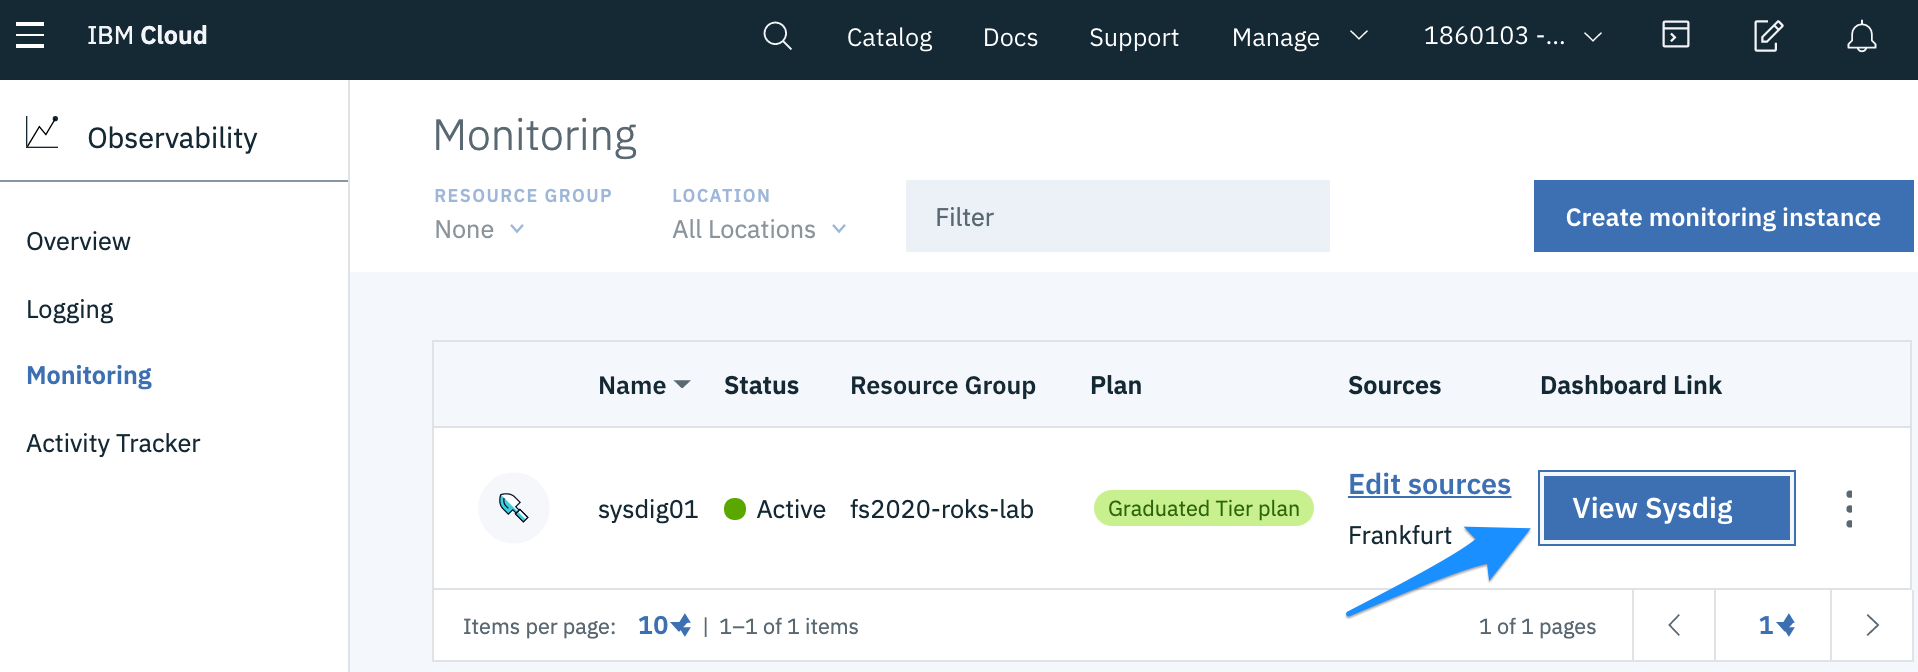
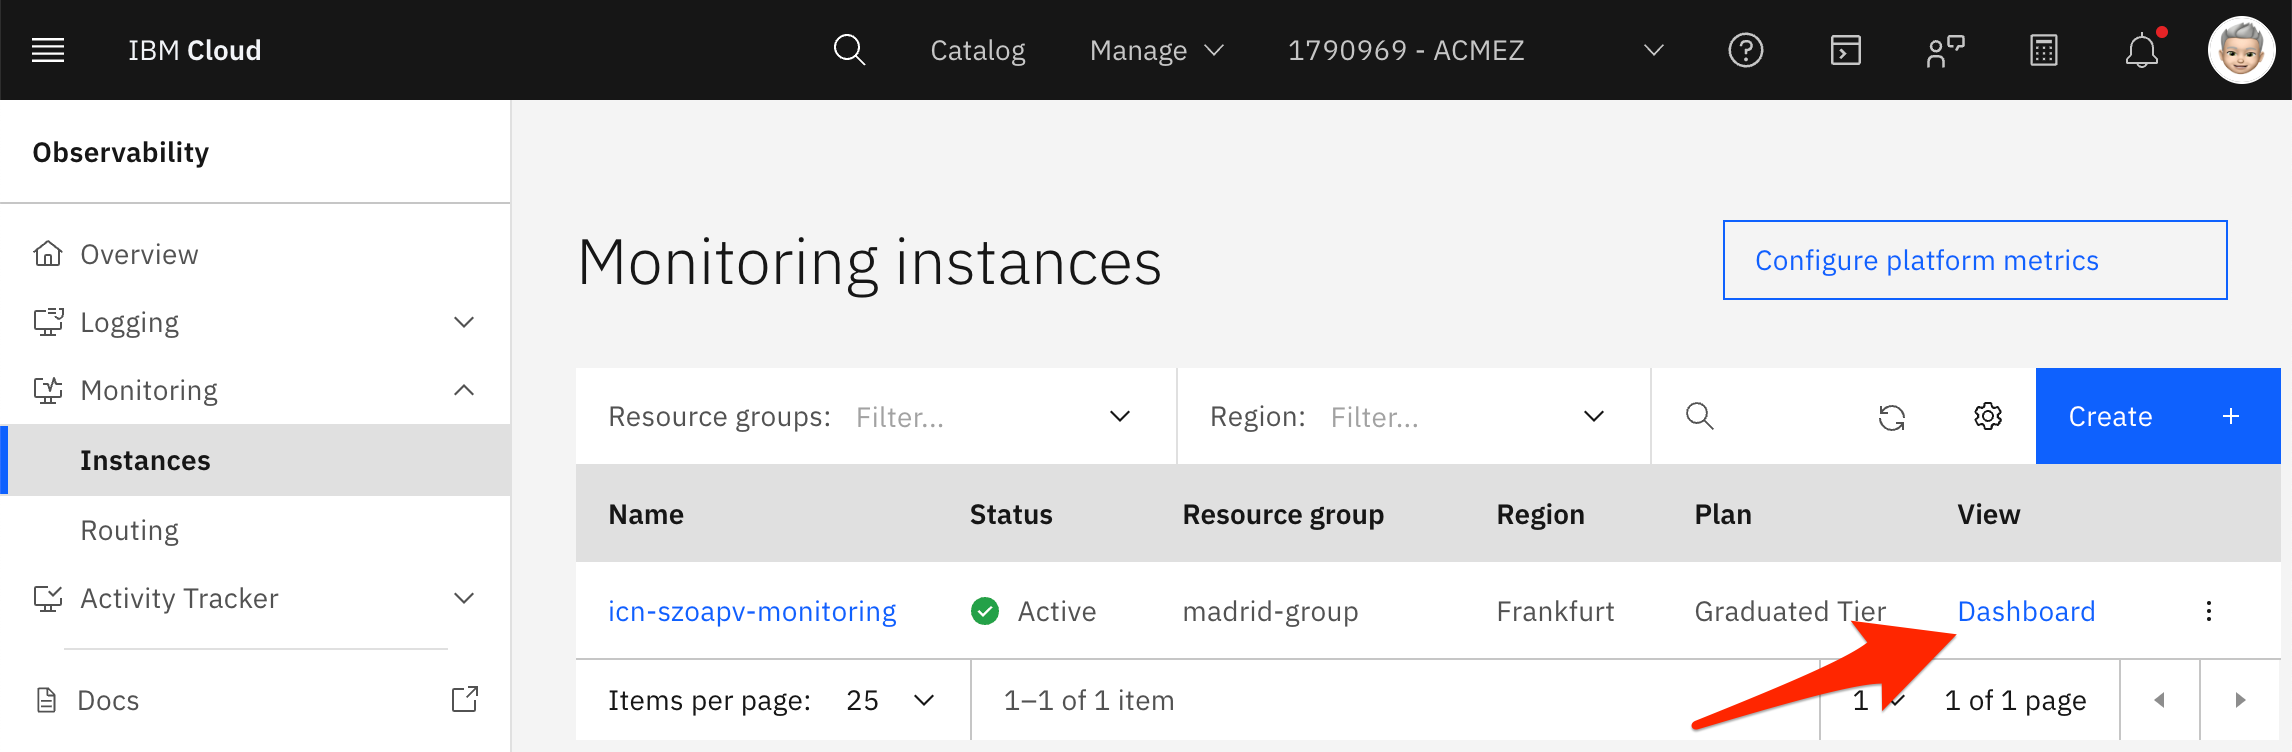
started to update Monitoring

diff --git a/archived/ex-9-monitor-initial.md b/archived/ex-9-monitor-initial.md
@@ -1,42 +1,66 @@
-# Monitor your Cluster
+# Monitor your Cluster with SysDig
 
-IBM Cloud Monitoring with Sysdig is a co-branded cloud-native, and container-intelligence management system that you can include as part of your architecture.
-
-Use views and dashboards to monitor your infrastructure, applications, and services. You can use pre-defined dashboards. You can also create custom dashboards through the Web UI or programmatically.
-
-The following table lists the different types of pre-defined dashboards:
-
-| Type | Description |
-| :--- | :--- |
-| Applications | Dashboards that you can use to monitor your applications and infrastructure components. |
-| Host and containers | Dashboards that you can use to monitor resource utilization and system activity on your hosts and in your containers. |
-| Network | Dashboards that you can use to monitor your network connections and activity. |
-| Service | Dashboards that you can use to monitor the performance of your services, even if those services are deployed in orchestrated containers. |
-| Topology | Dashboards that you can use to monitor the logical dependencies of your application tiers and overlay metrics. |
+IBM Cloud Monitoring with Sysdig is a co-branded cloud-native, and container- intelligence management system that you can include as part of your IBM Cloud architecture. Use it to gain operational visibility into the performance and health of your applications, services, and platforms. It offers administrators, DevOps teams, and developers full stack telemetry with advanced features to monitor and troubleshoot performance issues, define alerts, and design custom dashboards. IBM Cloud Monitoring with Sysdig is operated by Sysdig in partnership with IBM. [Learn more](https://cloud.ibm.com/docs/Monitoring-with-Sysdig?topic=Sysdig-getting-started).
 
 In the next steps, you will learn how to use dashboards and metrics to monitor the health of your application.
 
-## View the Monitoring dashboard
+## View SysDig pre-defined views and dashboards
 
-1. Go the Monitoring section under [Observability](https://cloud.ibm.com/observability/monitoring)
+Use views and dashboards to monitor your infrastructure, applications, and services. You can use pre-defined dashboards. You can also create custom dashboards through the Web UI or programmatically. You can backup and restore dashboards by using Python scripts.
 
-1. Launch the Monitoring Dashboard.
+The following table lists the different types of pre-defined dashboards:
 
-    ![dashboard](../assets/icp-monitoring-launch.png)
+| Type | Description | 
+| :--- | :--- |
+| Applications | Dashboards that you can use to monitor your applications and infrastructure components. |
+| Host and containers | Dashboards that you can use to monitor resource utilization and system activity on your hosts and in your containers. |
+| Network | Dashboards that you can use to monitor your network connections and activity. | 
+| Service | Dashboards that you can use to monitor the performance of your services, even if those services are deployed in orchestrated containers. | 
+| Topology | Dashboards that you can use to monitor the logical dependencies of your application tiers and overlay metrics. | 
 
-1. Navigate the Monitoring console to get metrics on your Kubernetes cluster, nodes, deployments, pods, containers.
 
-1. Under the **Explore** section,select **Containerized Apps** to view raw metrics for all workloads running on the cluster.
+## Complete the Sysdig installation wizard
+
+1. Launch the Sysdig web UI.
+
+    ![](../assets/icp-monitoring-launch.png)
+
+2. In the Sysdig Welcome wizard, click **Next**
+   ![](../assets/sysdig-wizard1.png)
+
+3. Select **Kubernetes | GKE | OpenShift** as the installation method.
+   ![](../assets/sysdig-wizard2.png)
+
+4. You should see a message `You have X agents connected`. Click **GO TO NEXT STEP**. 
+   ![](../assets/sysdig-wizard3.png)
+
+5. Setup is complete. Click **LET'S GET STARTED**
+   ![](../assets/sysdig-wizard4.png)
+
+6. Select **Next**
+   ![](../assets/sysdig-wizard5.png)
+
+7. Finally **Complete Onboarding**
+
+   ![](../assets/sysdig-wizard6.png)
+
+
+## View the Sysdig dashboard
+
+1. Navigate the Sysdig console to get metrics on your Kubernetes cluster, nodes, deployments, pods, containers.
+
+2. Under the **Explore** section,select **Containerized Apps** to view raw metrics for all workloads running on the cluster.
 
    ![](../assets/sysdig-select-app.png)
 
-1. Under **Explore**, select **Nodes**, search `patient-ui`. Look for the partientui pod entry.
+3. Under **Explore**, select **Nodes**, search `patient-ui`. Look for the partientui pod entry.
 
    ![](../assets/sysdig-explore-node.png)
 
-1. Under **Dashboard**, select **Default Dashboards** &gt; **Applications**. Then select **HTTP** to get a global view of the cluster HTTP load.
+4. Under **Dashboard**, select **Default Dashboards** &gt; **Applications**. Then select **HTTP** to get a global view of the cluster HTTP load.
 
-1. Under Dashboard, select **Default Dashboards** &gt; **Hosts & Containers**. Then select **Overview by Host** to understand how nodes are currently performing.
+5. Under Dashboard, select **Default Dashboards** &gt; **Hosts & Containers**. Then select **Overview by Host** to understand how nodes are currently performing.
+
 
 ## Explore the normal traffic flow of the application
 
